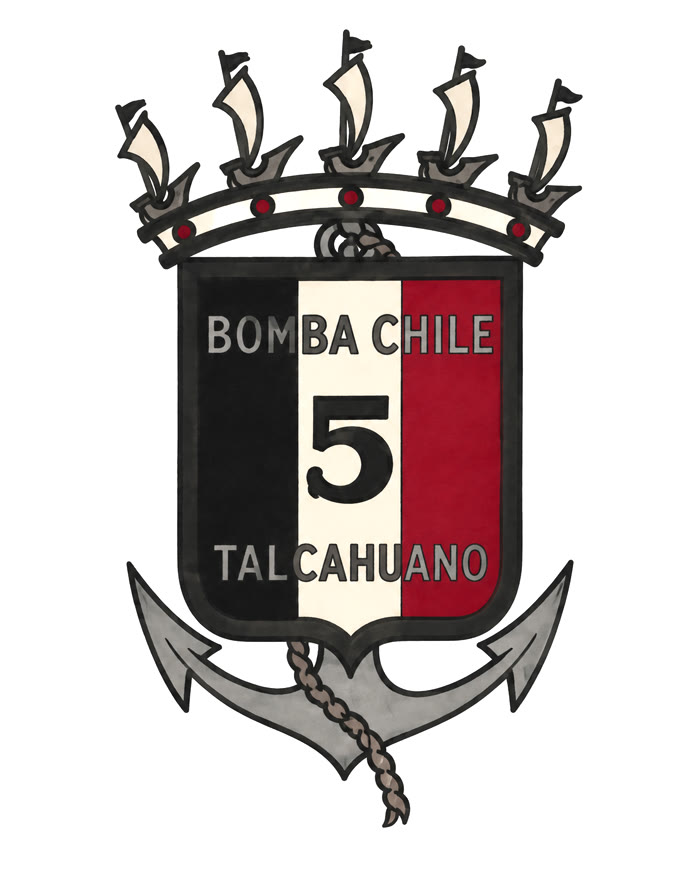
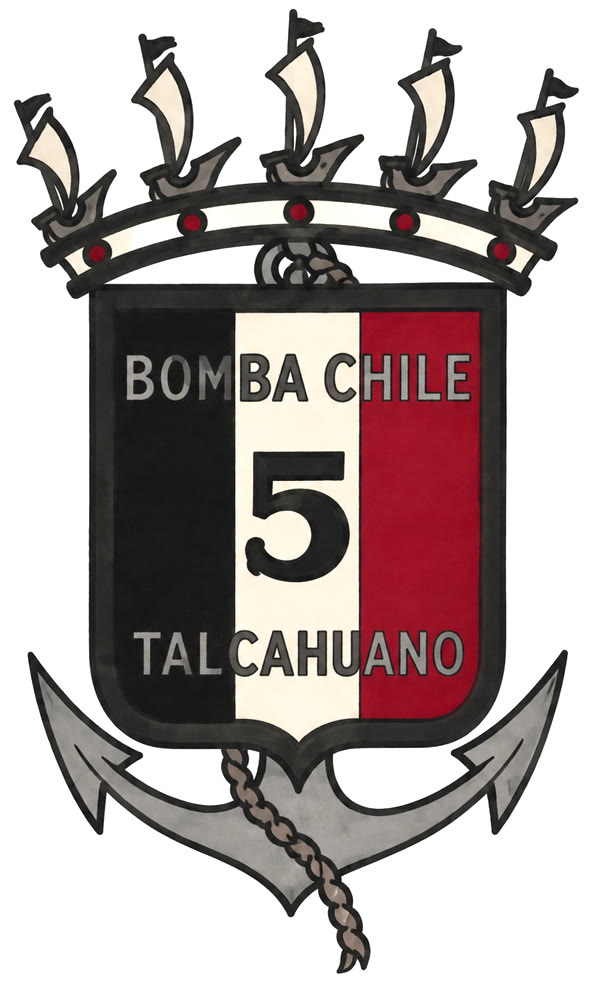
Reliquias: escudo del águila y primer escudo más grande
Claude-Session: https://claude.ai/code/session_018ZjM1Tppy8jvXMPKHAUokC

diff --git a/archivo/reliquias/index.html b/archivo/reliquias/index.html
@@ -9,7 +9,7 @@
 <link rel="icon" href="../../favicon.ico?v=ced1385c">
 <link rel="icon" type="image/png" sizes="192x192" href="../../assets/img/icono-192.png">
 <link rel="apple-touch-icon" href="../../assets/img/icono-180.png">
-<link rel="stylesheet" href="../../assets/css/estilos.css?v=18a538d5">
+<link rel="stylesheet" href="../../assets/css/estilos.css?v=cd4c27b1">
 <script src="../../assets/js/menu.js?v=5a35aadb" defer></script>
 </head>
 <body>
@@ -47,15 +47,15 @@
 <!-- Reliquias: documentos y objetos historicos de la Quinta. En preparacion. -->
 <p class="intro">Documentos y objetos que guardan la historia de la Quinta.</p>
 <h2>Escudos de la Quinta</h2>
-<p>Del más antiguo al más nuevo: el escudo del diploma de 1960, con la corona naval de Talcahuano y los colores de la Alemania imperial; el escudo del águila, del que todavía nos falta una imagen, y el escudo actual, vigente desde el 20 de septiembre de 2022.</p>
+<p>Del más antiguo al más nuevo: el escudo del diploma de 1960, con la corona naval de Talcahuano y los colores de la Alemania imperial; el escudo del águila, que se usó hasta 2022, y el escudo actual, vigente desde el 20 de septiembre de 2022.</p>
 <ul class="escudos">
-<li><img class="ampliable" src="../../assets/img/reliquia-escudo-diploma-1960.jpg" width="700" height="888" alt="Escudo antiguo de la Quinta: corona naval con cinco veleros, franjas negra, blanca y roja con Bomba Chile, el 5 y Talcahuano, sobre un ancla" loading="lazy"></li>
-<li><img class="pendiente" src="../../assets/img/escudo-desconocido.svg" alt="Escudo del águila, imagen pendiente" loading="lazy"></li>
+<li><img class="ampliable antiguo" src="../../assets/img/reliquia-escudo-diploma-1960.jpg" width="600" height="988" alt="Escudo antiguo de la Quinta: corona naval con cinco veleros, franjas negra, blanca y roja con Bomba Chile, el 5 y Talcahuano, sobre un ancla" loading="lazy"></li>
+<li><img class="ampliable" src="../../assets/img/reliquia-escudo-aguila.jpg" width="600" height="712" alt="Escudo del águila de la Quinta: águila negra con el 5 en el pecho y el año 1908, sobre franjas diagonales negra, blanca y roja" loading="lazy"></li>
 <li><img class="ampliable" src="../../assets/img/escudo-quinta.png" width="256" height="300" alt="Escudo actual de la Quinta: águila negra con el 5 sobre franjas negra, blanca y roja, con Deutsche Feuerwehrkompanie Bomba Chile, 1908 y Talcahuano" loading="lazy"></li>
 </ul>
 <h2>Diploma de Miembro Honorario de Ricardo Setz Schlegel</h2>
 <p>El 29 de enero de 1960, en el aniversario 52 de la compañía, la Quinta confirió el título de Miembro Honorario a su voluntario fundador Ricardo Setz Schlegel, primer Secretario-Tesorero de 1908.</p>
-<figure class="documento con-escudo"><img class="ampliable" src="../../assets/img/reliquia-diploma-ricardo-setz-schlegel-1960.jpg" width="1200" height="850" alt="Diploma en letra gótica con el escudo de la Quinta, que confiere el título de Miembro Honorario al voluntario fundador Ricardo Setz Schlegel, fechado en Talcahuano el 29 de enero de 1960 y firmado por el Secretario y el Director" loading="lazy"><img class="ampliable" src="../../assets/img/reliquia-escudo-diploma-1960.jpg" width="700" height="888" alt="Réplica dibujada del escudo del diploma: corona naval de Talcahuano con cinco veleros, escudo en franjas negra, blanca y roja con la inscripción Bomba Chile, el número 5 y Talcahuano, sobre un ancla con su cabo" loading="lazy"></figure>
+<figure class="documento con-escudo"><img class="ampliable" src="../../assets/img/reliquia-diploma-ricardo-setz-schlegel-1960.jpg" width="1200" height="850" alt="Diploma en letra gótica con el escudo de la Quinta, que confiere el título de Miembro Honorario al voluntario fundador Ricardo Setz Schlegel, fechado en Talcahuano el 29 de enero de 1960 y firmado por el Secretario y el Director" loading="lazy"><img class="ampliable" src="../../assets/img/reliquia-escudo-diploma-1960.jpg" width="600" height="988" alt="Réplica dibujada del escudo del diploma: corona naval de Talcahuano con cinco veleros, escudo en franjas negra, blanca y roja con la inscripción Bomba Chile, el número 5 y Talcahuano, sobre un ancla con su cabo" loading="lazy"></figure>
 </article>
 </main>
 <footer class="pie">

diff --git a/herramientas/contenido/reliquias.html b/herramientas/contenido/reliquias.html
@@ -1,10 +1,10 @@
 <!-- Reliquias: documentos y objetos historicos de la Quinta. En preparacion. -->
 <p class="intro">Documentos y objetos que guardan la historia de la Quinta.</p>
 <h2>Escudos de la Quinta</h2>
-<p>Del más antiguo al más nuevo: el escudo del diploma de 1960, con la corona naval de Talcahuano y los colores de la Alemania imperial; el escudo del águila, del que todavía nos falta una imagen, y el escudo actual, vigente desde el 20 de septiembre de 2022.</p>
+<p>Del más antiguo al más nuevo: el escudo del diploma de 1960, con la corona naval de Talcahuano y los colores de la Alemania imperial; el escudo del águila, que se usó hasta 2022, y el escudo actual, vigente desde el 20 de septiembre de 2022.</p>
 <ul class="escudos">
-<li><img class="ampliable" src="../../assets/img/reliquia-escudo-diploma-1960.jpg" alt="Escudo antiguo de la Quinta: corona naval con cinco veleros, franjas negra, blanca y roja con Bomba Chile, el 5 y Talcahuano, sobre un ancla" loading="lazy"></li>
-<li><img class="pendiente" src="../../assets/img/escudo-desconocido.svg" alt="Escudo del águila, imagen pendiente" loading="lazy"></li>
+<li><img class="ampliable antiguo" src="../../assets/img/reliquia-escudo-diploma-1960.jpg" alt="Escudo antiguo de la Quinta: corona naval con cinco veleros, franjas negra, blanca y roja con Bomba Chile, el 5 y Talcahuano, sobre un ancla" loading="lazy"></li>
+<li><img class="ampliable" src="../../assets/img/reliquia-escudo-aguila.jpg" alt="Escudo del águila de la Quinta: águila negra con el 5 en el pecho y el año 1908, sobre franjas diagonales negra, blanca y roja" loading="lazy"></li>
 <li><img class="ampliable" src="../../assets/img/escudo-quinta.png" alt="Escudo actual de la Quinta: águila negra con el 5 sobre franjas negra, blanca y roja, con Deutsche Feuerwehrkompanie Bomba Chile, 1908 y Talcahuano" loading="lazy"></li>
 </ul>
 <h2>Diploma de Miembro Honorario de Ricardo Setz Schlegel</h2>

diff --git a/assets/css/estilos.css b/assets/css/estilos.css
@@ -648,8 +648,8 @@ a.saludo:hover { border-color: var(--dorado); }
 .contenido .escudos { list-style: none; padding: 0; margin: 1.6em 0 2.4em; display: flex; justify-content: center; align-items: center; gap: 48px; flex-wrap: wrap; }
 .contenido .escudos li { margin: 0; }
 .contenido .escudos img { height: 200px; width: auto; margin: 0; border-radius: 0; mix-blend-mode: multiply; }
-.contenido .escudos img.pendiente { height: 150px; }
-@media (max-width: 600px) { .contenido .escudos { gap: 16px; flex-wrap: nowrap; } .contenido .escudos img { height: 100px; } .contenido .escudos img.pendiente { height: 78px; } }
+.contenido .escudos img.antiguo { height: 250px; }   /* la corona y el ancla lo achican: un poco mas alto */
+@media (max-width: 600px) { .contenido .escudos { gap: 16px; flex-wrap: nowrap; } .contenido .escudos img { height: 100px; } .contenido .escudos img.antiguo { height: 125px; } }
 /* documento con la replica de su escudo a la derecha (Reliquias); en celular, el escudo debajo */
 .contenido .documento.con-escudo { max-width: 820px; display: grid; grid-template-columns: 3fr 1fr; gap: 32px; align-items: center; }
 .contenido .documento.con-escudo img + img { box-shadow: none; border-radius: 0; mix-blend-mode: multiply; }

diff --git a/material-mayor/b-5/index.html b/material-mayor/b-5/index.html
@@ -21,7 +21,7 @@
 <link rel="icon" href="../../favicon.ico?v=ced1385c">
 <link rel="icon" type="image/png" sizes="192x192" href="../../assets/img/icono-192.png">
 <link rel="apple-touch-icon" href="../../assets/img/icono-180.png">
-<link rel="stylesheet" href="../../assets/css/estilos.css?v=18a538d5">
+<link rel="stylesheet" href="../../assets/css/estilos.css?v=cd4c27b1">
 <script src="../../assets/js/menu.js?v=5a35aadb" defer></script>
 </head>
 <body>

diff --git a/material-mayor/berliet-camiva-1973/index.html b/material-mayor/berliet-camiva-1973/index.html
@@ -21,7 +21,7 @@
 <link rel="icon" href="../../favicon.ico?v=ced1385c">
 <link rel="icon" type="image/png" sizes="192x192" href="../../assets/img/icono-192.png">
 <link rel="apple-touch-icon" href="../../assets/img/icono-180.png">
-<link rel="stylesheet" href="../../assets/css/estilos.css?v=18a538d5">
+<link rel="stylesheet" href="../../assets/css/estilos.css?v=cd4c27b1">
 <script src="../../assets/js/menu.js?v=5a35aadb" defer></script>
 </head>
 <body>

diff --git a/material-mayor/bx-5/index.html b/material-mayor/bx-5/index.html
@@ -21,7 +21,7 @@
 <link rel="icon" href="../../favicon.ico?v=ced1385c">
 <link rel="icon" type="image/png" sizes="192x192" href="../../assets/img/icono-192.png">
 <link rel="apple-touch-icon" href="../../assets/img/icono-180.png">
-<link rel="stylesheet" href="../../assets/css/estilos.css?v=18a538d5">
+<link rel="stylesheet" href="../../assets/css/estilos.css?v=cd4c27b1">
 <script src="../../assets/js/menu.js?v=5a35aadb" defer></script>
 </head>
 <body>

diff --git a/material-mayor/ford-champion-1941/index.html b/material-mayor/ford-champion-1941/index.html
@@ -21,7 +21,7 @@
 <link rel="icon" href="../../favicon.ico?v=ced1385c">
 <link rel="icon" type="image/png" sizes="192x192" href="../../assets/img/icono-192.png">
 <link rel="apple-touch-icon" href="../../assets/img/icono-180.png">
-<link rel="stylesheet" href="../../assets/css/estilos.css?v=18a538d5">
+<link rel="stylesheet" href="../../assets/css/estilos.css?v=cd4c27b1">
 <script src="../../assets/js/menu.js?v=5a35aadb" defer></script>
 </head>
 <body>

diff --git a/material-mayor/gallo-1908/index.html b/material-mayor/gallo-1908/index.html
@@ -21,7 +21,7 @@
 <link rel="icon" href="../../favicon.ico?v=ced1385c">
 <link rel="icon" type="image/png" sizes="192x192" href="../../assets/img/icono-192.png">
 <link rel="apple-touch-icon" href="../../assets/img/icono-180.png">
-<link rel="stylesheet" href="../../assets/css/estilos.css?v=18a538d5">
+<link rel="stylesheet" href="../../assets/css/estilos.css?v=cd4c27b1">
 <script src="../../assets/js/menu.js?v=5a35aadb" defer></script>
 </head>
 <body>

diff --git a/material-mayor/hansa-lloyd-1927/index.html b/material-mayor/hansa-lloyd-1927/index.html
@@ -21,7 +21,7 @@
 <link rel="icon" href="../../favicon.ico?v=ced1385c">
 <link rel="icon" type="image/png" sizes="192x192" href="../../assets/img/icono-192.png">
 <link rel="apple-touch-icon" href="../../assets/img/icono-180.png">
-<link rel="stylesheet" href="../../assets/css/estilos.css?v=18a538d5">
+<link rel="stylesheet" href="../../assets/css/estilos.css?v=cd4c27b1">
 <script src="../../assets/js/menu.js?v=5a35aadb" defer></script>
 </head>
 <body>

diff --git a/material-mayor/harbor-28/index.html b/material-mayor/harbor-28/index.html
@@ -21,7 +21,7 @@
 <link rel="icon" href="../../favicon.ico?v=ced1385c">
 <link rel="icon" type="image/png" sizes="192x192" href="../../assets/img/icono-192.png">
 <link rel="apple-touch-icon" href="../../assets/img/icono-180.png">
-<link rel="stylesheet" href="../../assets/css/estilos.css?v=18a538d5">
+<link rel="stylesheet" href="../../assets/css/estilos.css?v=cd4c27b1">
 <script src="../../assets/js/menu.js?v=5a35aadb" defer></script>
 </head>
 <body>

diff --git a/material-mayor/magirus-deutz-1954/index.html b/material-mayor/magirus-deutz-1954/index.html
@@ -21,7 +21,7 @@
 <link rel="icon" href="../../favicon.ico?v=ced1385c">
 <link rel="icon" type="image/png" sizes="192x192" href="../../assets/img/icono-192.png">
 <link rel="apple-touch-icon" href="../../assets/img/icono-180.png">
-<link rel="stylesheet" href="../../assets/css/estilos.css?v=18a538d5">
+<link rel="stylesheet" href="../../assets/css/estilos.css?v=cd4c27b1">
 <script src="../../assets/js/menu.js?v=5a35aadb" defer></script>
 </head>
 <body>

diff --git a/material-mayor/mx-5/index.html b/material-mayor/mx-5/index.html
@@ -21,7 +21,7 @@
 <link rel="icon" href="../../favicon.ico?v=ced1385c">
 <link rel="icon" type="image/png" sizes="192x192" href="../../assets/img/icono-192.png">
 <link rel="apple-touch-icon" href="../../assets/img/icono-180.png">
-<link rel="stylesheet" href="../../assets/css/estilos.css?v=18a538d5">
+<link rel="stylesheet" href="../../assets/css/estilos.css?v=cd4c27b1">
 <script src="../../assets/js/menu.js?v=5a35aadb" defer></script>
 </head>
 <body>
